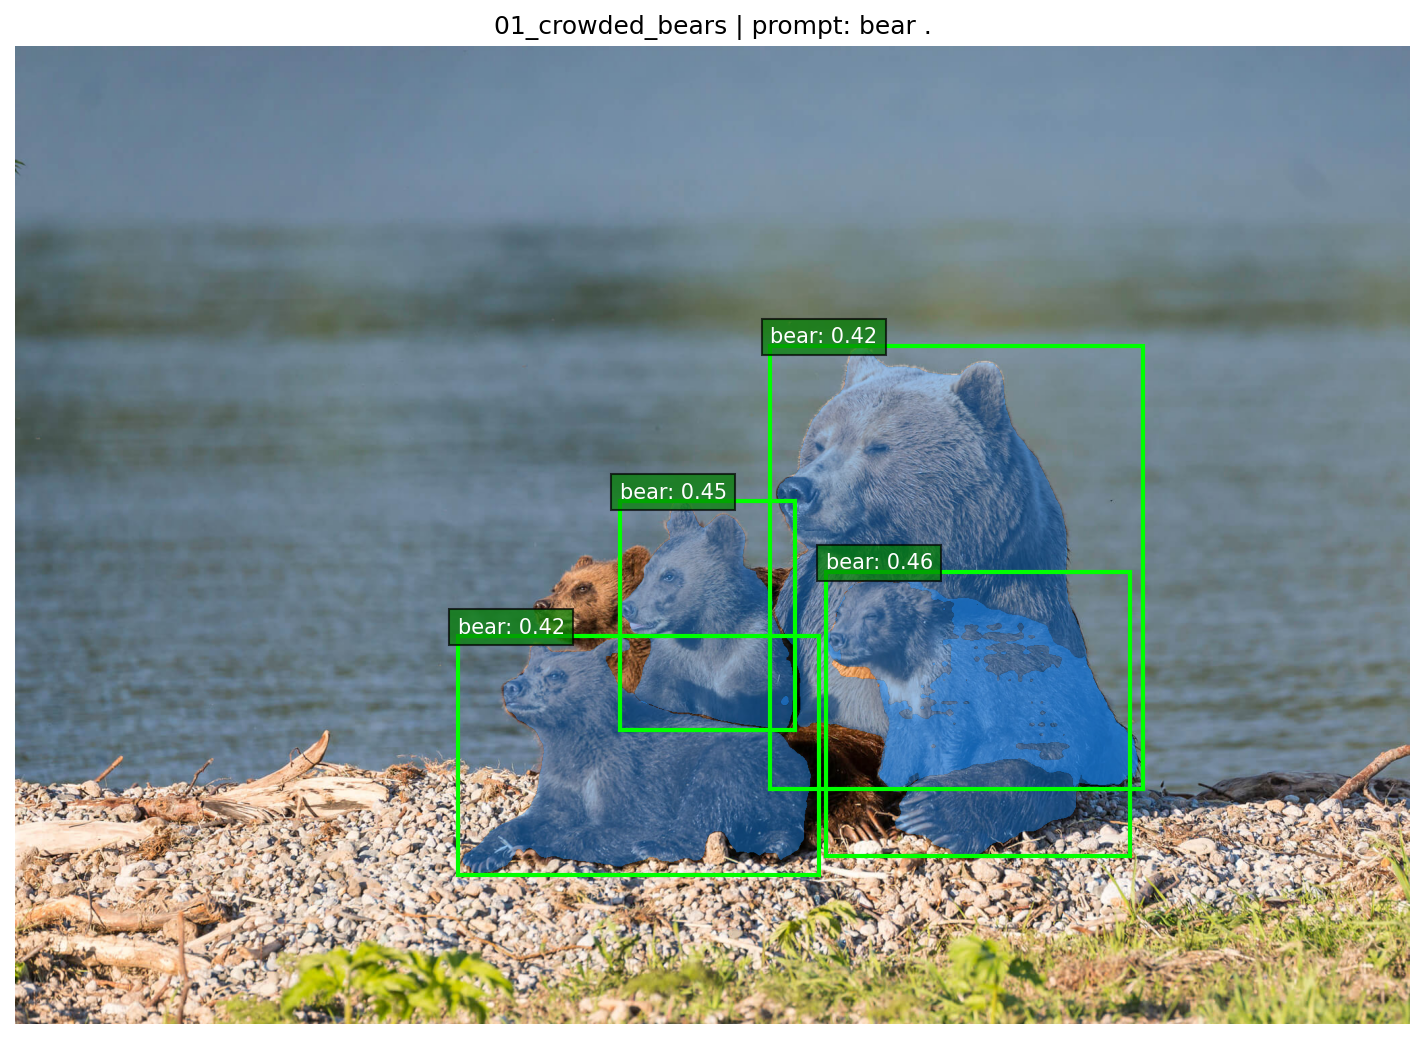
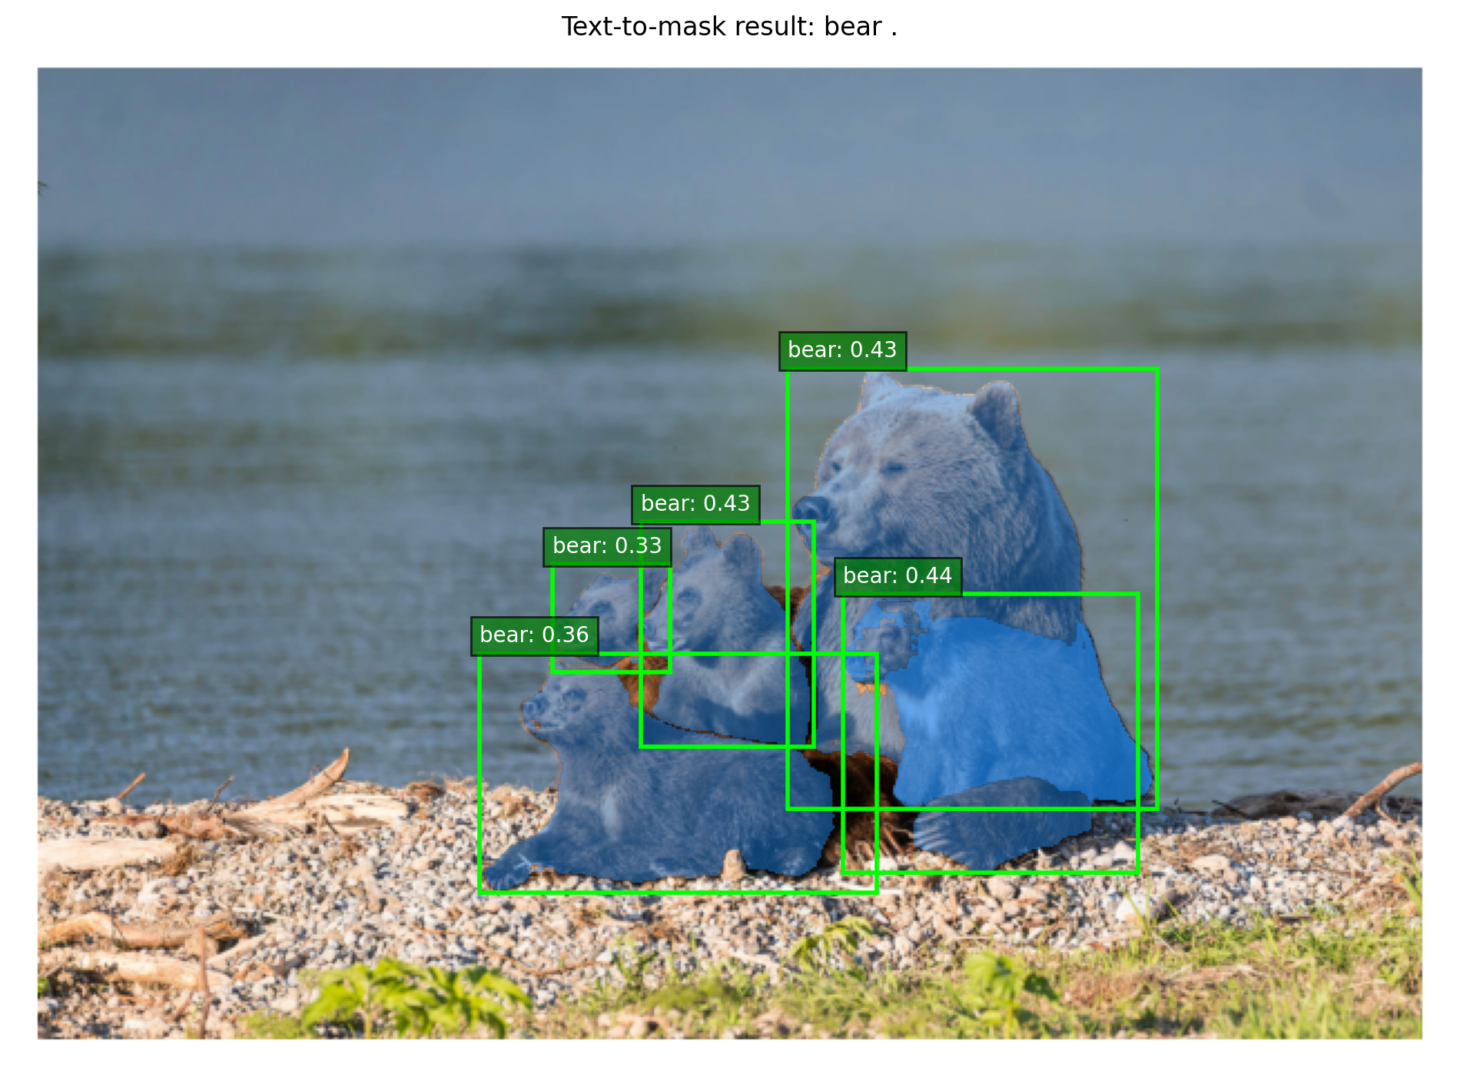
Update crowded bears result and evaluation metrics

diff --git a/report/experiments/04_evaluation_summary.md b/report/experiments/04_evaluation_summary.md
@@ -5,7 +5,7 @@ The project does not use a manually labeled benchmark, so the evaluation combine
 
 | Case | Prompt | Raw detections | After NMS | Mean box score | Mean mask score | Interpretation |
 |---|---|---:|---:|---:|---:|---|
-| `01_crowded_bears` | `bear .` | 8 | 4 | 0.438 | 0.951 | Crowded scene; NMS reduces duplicate/overlapping detections. |
+| `01_crowded_bears` | `bear .` | 8 | 5 | 0.399 | 0.971 | Crowded scene; tuned setting keeps five final detections while preserving a readable visualization. |
 | `02_bear_cub_prompt` | `bear cub .` | 5 | 4 | 0.425 | 0.958 | Same image with a more specific prompt; useful for prompt sensitivity. |
 | `03_bus_person_multi_object` | `bus . person .` | 5 | 5 | 0.709 | 0.962 | Successful multi-object prompt with bus and person categories. |
 | `04_person_clear_case` | `person .` | 2 | 2 | 0.654 | 0.987 | Clear simple case with stable person detections. |
@@ -13,7 +13,9 @@ The project does not use a manually labeled benchmark, so the evaluation combine
 
 Key observations:
 
+- The crowded bears example uses a tuned setting: `box_threshold=0.25`, `text_threshold=0.30`, `nms_iou_threshold=0.35`, `max_detections=8`.
+- This setting keeps five final detections for the five visible bears while avoiding an extra duplicate detection.
 - The multi-object `bus . person .` prompt has the strongest mean box confidence among the gallery cases.
 - The weak `small animal .` prompt produces much lower box confidence, which supports the prompt-sensitivity analysis.
 - SAM mask scores remain high even in weak prompt cases, because SAM segments boxes provided by the detector; therefore detection quality is the main bottleneck.
-- In crowded scenes, NMS reduces overlapping detections but may also remove valid nearby objects.
+- In crowded scenes, NMS reduces overlapping detections but may also remove valid nearby objects or produce partial masks.

diff --git a/report/final_report.md b/report/final_report.md
@@ -275,7 +275,7 @@ The following figures show representative outputs of the implemented text-to-mas
 
 ![Local Streamlit demo result](figures/streamlit_demo_result.png)
 
-**Crowded bears case.** This example demonstrates a difficult crowded scene with overlapping animal instances. It is useful for error analysis because some boxes and masks overlap, and not all visually present bears are perfectly separated after NMS.
+**Crowded bears case.** This example demonstrates a difficult crowded scene with overlapping animal instances. The final tuned setting keeps five detections for the five visible bears while preserving a readable visualization. Some masks remain slightly incomplete because the objects overlap and SAM receives box-guided prompts.
 
 ![Crowded bears result](figures/gallery/01_crowded_bears.png)
 
@@ -312,7 +312,7 @@ Because the project is a practical inference-based prototype rather than a super
 
 | Case | Raw detections | After NMS | Mean box score | Mean mask score | Interpretation |
 |---|---:|---:|---:|---:|---|
-| `01_crowded_bears` | 8 | 4 | 0.438 | 0.951 | Crowded scene; NMS reduces duplicate/overlapping detections. |
+| `01_crowded_bears` | 8 | 5 | 0.399 | 0.971 | Crowded scene; tuned setting keeps five final detections while preserving a readable visualization. |
 | `02_bear_cub_prompt` | 5 | 4 | 0.425 | 0.958 | Same image with a more specific prompt; useful for prompt sensitivity. |
 | `03_bus_person_multi_object` | 5 | 5 | 0.709 | 0.962 | Successful multi-object prompt with bus and person categories. |
 | `04_person_clear_case` | 2 | 2 | 0.654 | 0.987 | Clear simple case with stable person detections. |
@@ -320,7 +320,7 @@ Because the project is a practical inference-based prototype rather than a super
 
 The weak prompt case intentionally uses the same bus image as the multi-object prompt case. This creates a controlled comparison: the image remains fixed, while the text prompt changes from a semantically correct prompt (`bus . person .`) to a mismatched prompt (`small animal .`). The lower mean box confidence in the weak prompt case supports the prompt-sensitivity analysis.
 
-The crowded bears case is also intentionally included as a limitation example. Not all visually present bear instances are perfectly separated, because small nearby objects overlap strongly and can be suppressed by NMS or by the maximum detection limit.
+The crowded bears case is also intentionally included as a limitation example. The final tuned setting keeps five detections for the five visible bears (`box_threshold=0.25`, `text_threshold=0.30`, `nms_iou_threshold=0.35`, `max_detections=8`). Some masks remain slightly incomplete because nearby bear instances overlap strongly and the pipeline relies on box-guided segmentation.
 
 ## 9. Error Analysis
 

diff --git a/README.md b/README.md
@@ -192,7 +192,7 @@ The project does not use a manually labeled segmentation benchmark. Therefore, e
 
 | Case                         | Raw detections | After NMS | Mean box score | Mean mask score | Interpretation                                               |
 | ---------------------------- | -------------: | --------: | -------------: | --------------: | ------------------------------------------------------------ |
-| `01_crowded_bears`           |              8 |         4 |          0.438 |           0.951 | Crowded scene; NMS reduces duplicate/overlapping detections. |
+| `01_crowded_bears`           |              8 |         5 |          0.399 |           0.971 | Tuned crowded-scene setting; five final detections and readable visualization.     |
 | `02_bear_cub_prompt`         |              5 |         4 |          0.425 |           0.958 | More specific prompt; useful for prompt sensitivity.         |
 | `03_bus_person_multi_object` |              5 |         5 |          0.709 |           0.962 | Successful multi-object prompt.                              |
 | `04_person_clear_case`       |              2 |         2 |          0.654 |           0.987 | Clear simple case.                                           |
@@ -234,7 +234,7 @@ Observed limitations:
 * prompt wording strongly affects results;
 * weak or mismatched prompts can produce semantically incorrect detections.
 
-The crowded bears example is intentionally included as an error-analysis case. Not all bear instances are perfectly separated, because small nearby animals overlap strongly and can be suppressed during post-processing.
+The crowded bears example is intentionally included as an error-analysis case. The final setting keeps five detections for the five visible bears, but some masks remain incomplete because nearby animals overlap strongly and the pipeline relies on box-guided segmentation.
 
 The bus/person and weak prompt cases intentionally use the same image to demonstrate prompt sensitivity under controlled visual input.
 